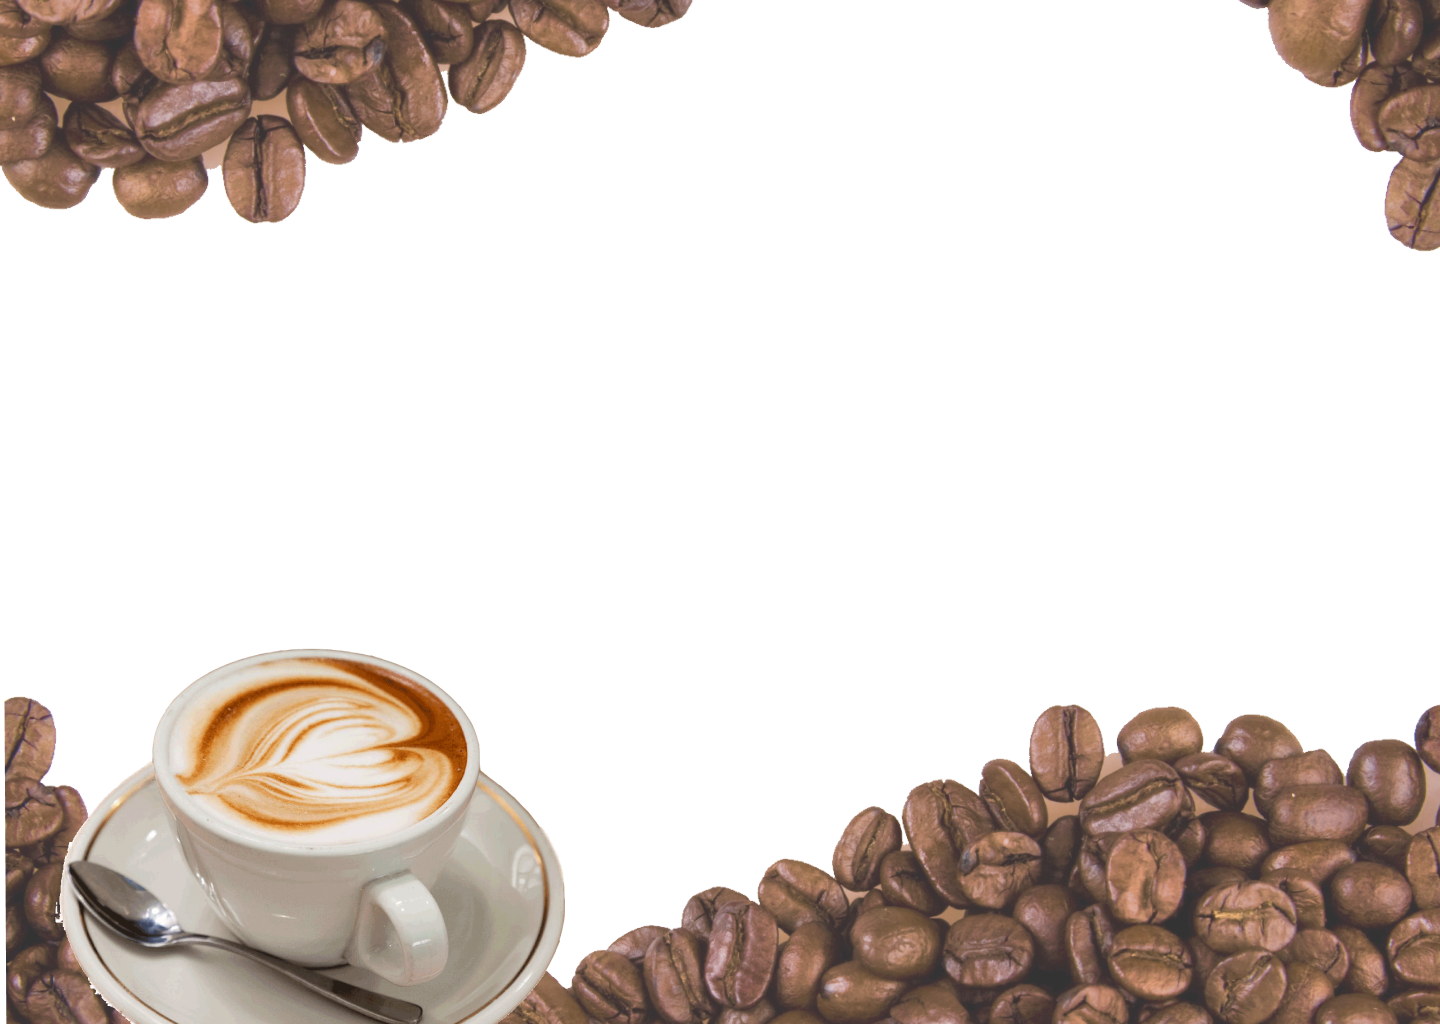
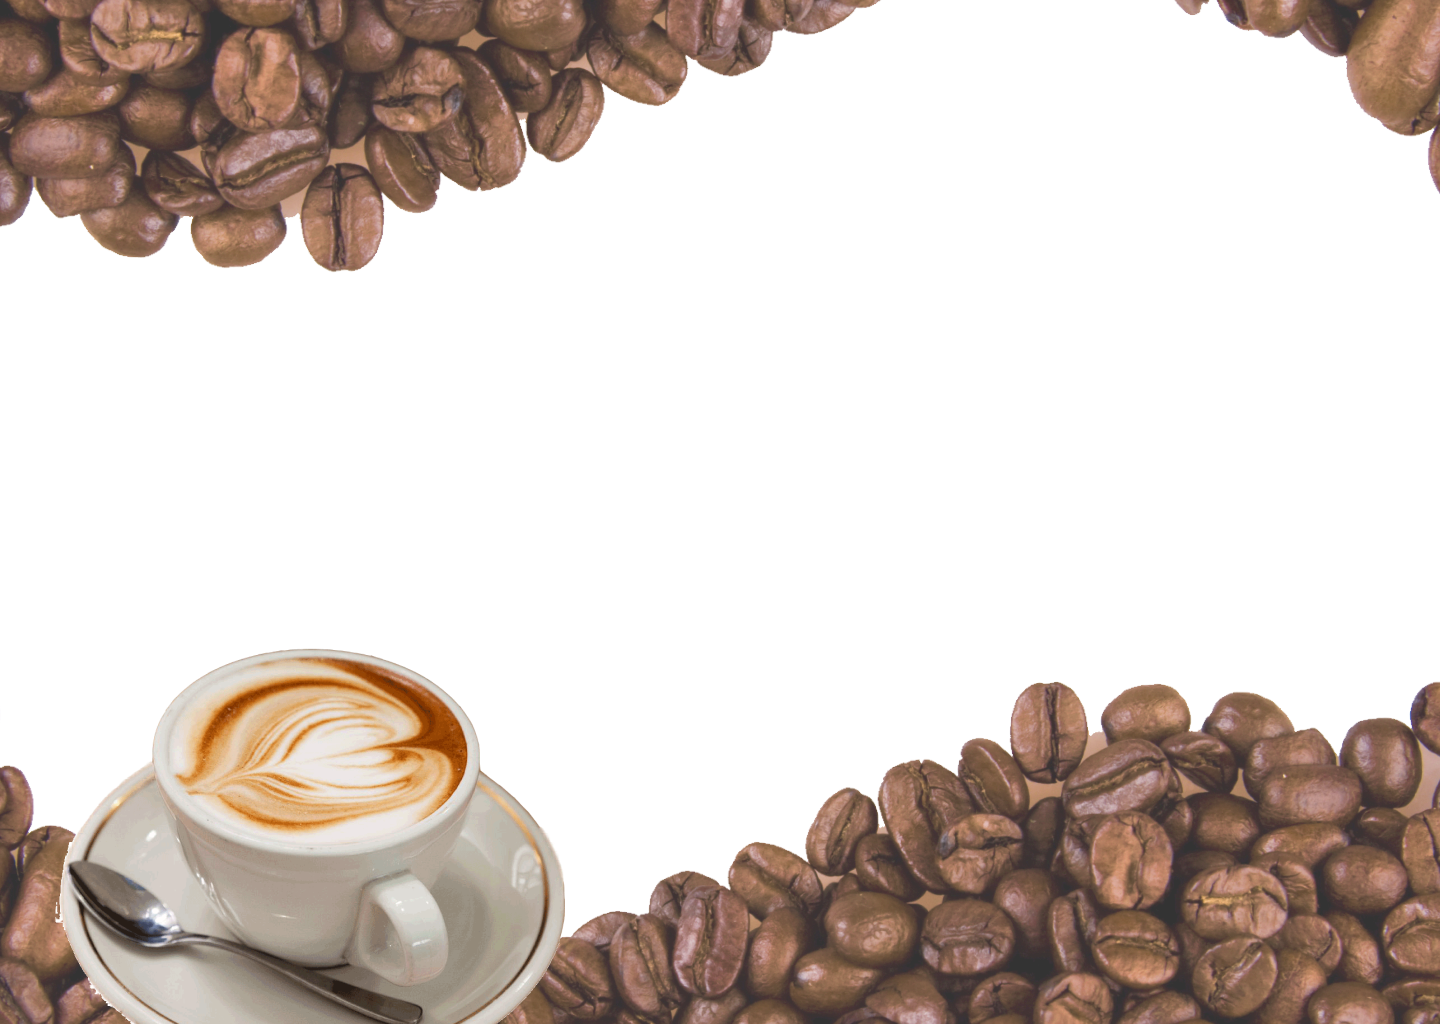
Merge pull request #38 from urdonyy/lea
fixed modal background, added some animation, fixed price in receipt

Pull request: fixed modal background, added some animation, fixed price in receipt

diff --git a/src/styles/homeView.css b/src/styles/homeView.css
@@ -15,18 +15,22 @@
   top: 100px;
 }
 
+body {
+  background: url("../../public/assets/images/homeView.png") center;
+  background-size: cover;
+}
 .mainContent {
   position: relative;
   display: flex;
   flex-direction: column;
-  gap: 50px;
+  gap: 40px;
   align-items: center;
   height: 100vh;
-  background: url("../../public/assets/images/homeView.png") center;
-  background-size: cover;
+  margin: 35px;
+  padding: 50px;
 }
 
-.logoName {
+.waveText {
   font-size: 48px;
   margin: 60px;
 }
@@ -96,4 +100,47 @@
   width: 100%;
   position: absolute;
   bottom: 0;
+}
+
+.waveText span {
+    display: inline-block;
+    font-size: 4rem;
+    animation: wave 2s ease-in-out infinite;
+}
+
+.waveText span:nth-child(1) {
+    animation-delay: 0s;
+}
+.waveText span:nth-child(2) {
+    animation-delay: 0.2s;
+}
+.waveText span:nth-child(3) {
+    animation-delay: 0.4s;
+}
+.waveText span:nth-child(4) {
+    animation-delay: 0.6s;
+}
+.waveText span:nth-child(5) {
+    animation-delay: 0.8s;
+}
+.waveText span:nth-child(6) {
+    animation-delay: 1.0s;
+
+}.waveText span:nth-child(7) {
+    animation-delay: 1.2s;
+}
+.waveText span:nth-child(8) {
+    animation-delay: 1.4s;
+}
+.waveText span:nth-child(9) {
+    animation-delay: 1.6s;
+}
+
+@keyframes wave {
+    0%, 100% {
+        transform: translateY(0);
+    }
+    50% {
+        transform: translateY(-20px);
+    }
 }

diff --git a/src/js/index.js b/src/js/index.js
@@ -271,7 +271,7 @@ function renderReceipt() {
 
   // get the item that's stored in cart from localstorage
   let items = JSON.parse(localStorage.getItem("cartItems")) || [];
-
+  
   // para ka klang nagi-index array,,, same concept
   let total = items.reduce((accumulator, curr) => {
     const quantity = curr.quantity || 1;
@@ -285,12 +285,12 @@ function renderReceipt() {
 
   items.map((item) => {
     const quantity = item.quantity || 1;
-    const price = parseFloat(item.price.replace(",", ""));
-
+    let price = parseFloat(item.price.replace(",", ""));
+    price *= quantity
     html += `<tr>
    <td>${item.name}</td>
       <td>${quantity}</td>
-      <td>${currencyFormatter.format(total)}</td>
+      <td>${currencyFormatter.format(price)}</td>
     </tr> 
     `;
   });
@@ -310,7 +310,7 @@ function renderReceipt() {
 
 let mowdal = $(".modal");
 let receipt = $(".receiptPrint");
-
+let cloneCarts = [];
 function showModal(x) {
   const action = x ? "add" : "remove";
   mowdal.classList[action]("active");
@@ -318,6 +318,7 @@ function showModal(x) {
 let closeBtn = document.querySelector(".closeBtn");
 closeBtn.addEventListener("click", function (e) {
   showModal(false);
+  localStorage.removeItem("cartItems");
 });
 
 let printRcpt = document.querySelector(".print");
@@ -330,13 +331,13 @@ printRcpt.addEventListener("click", function (event) {
 
   renderReceipt();
   showModal(true);
-
+  cloneCarts = itemsInCart
   //clear cart
   itemsInCart = [];
 
   //remove from localstorage
-  localStorage.removeItem("cartItems");
 
+  // alert("lol");
   //clear checked inputs (radio)
   document.querySelectorAll(".addToCartForm").forEach((form) => {
     form.reset();

diff --git a/src/styles/modal.css b/src/styles/modal.css
@@ -53,12 +53,11 @@
 .table {
   flex: 1 1 auto;
   overflow-y: auto;
-}
+} 
 
 .tableContainer {
   border-collapse: collapse;
   width: 340px;
-  align-items: center;
 }
 
 .tableHead tr th {
@@ -68,9 +67,17 @@
   padding: 10px;
 }
 
+.tableHead th {
+  vertical-align: baseline;
+}
+
+.tableBody td {
+  vertical-align: baseline;
+}
+
 .tableBody tr td {
   padding: 7px;
-  text-align: center;
+  text-align: left
 }
 
 /* .tableBody tr:last-of-type {

diff --git a/public/homeView.php b/public/homeView.php
@@ -11,11 +11,20 @@
 
 <body>
     <div class="mainContent">
-        <!-- <div class="headerImg">
-            <img src="./assets/images/coffee_beans.png" alt="coffee beans">
-        </div> -->
+        <div class="waveContainer">
+        <h1 class="waveText">
+            <span>B</span>
+            <span>r</span>
+            <span>e</span>
+            <span>w</span>
+            <span>&</span>
+            <span>B</span>
+            <span>e</span>
+            <span>a</span>
+            <span>n</span>
+        </h1>
+        </div>
 
-        <h1 class="logoName">Brew & Bean</h1>
         <h2 class="fresh">Fresh Beans. Warm Vibes. Welcome Home.</h2>
         <p class="begin">Begin your day with something meaningful—a cup worth savoring.</p>
 
@@ -23,17 +32,9 @@
             <button class="viewDemos" onclick="window.location.href='#'">View Demos</button>
             <button class="started" onclick="window.location.href='dashboard.php'">Let's Get Started</button>
         </div>
-
-        <!-- <div class="cupOfCoffee">
-            <img src="../assets/images/cup_of_coffee.png" alt="cup of coffee">
-            </div> -->
-
-        <!-- <div class="footerImg">
-                <img src="./assets/images/coffee_beans2.png" alt="coffee beans">
-            </div> -->
-
     </div>
 
 </body>
 
 </html>
+

diff --git a/public/addToCart.php b/public/addToCart.php
@@ -394,7 +394,6 @@ if (!isset($_GET['category']) || $_GET['category'] === '') {
         </div>
     </div>   
     </div>
-    <!-- <script src="modal.js"></script> -->
     <script src="../src/js/index.js"></script>
     <script src="../src/js/printModal.js"></script>
 </body>